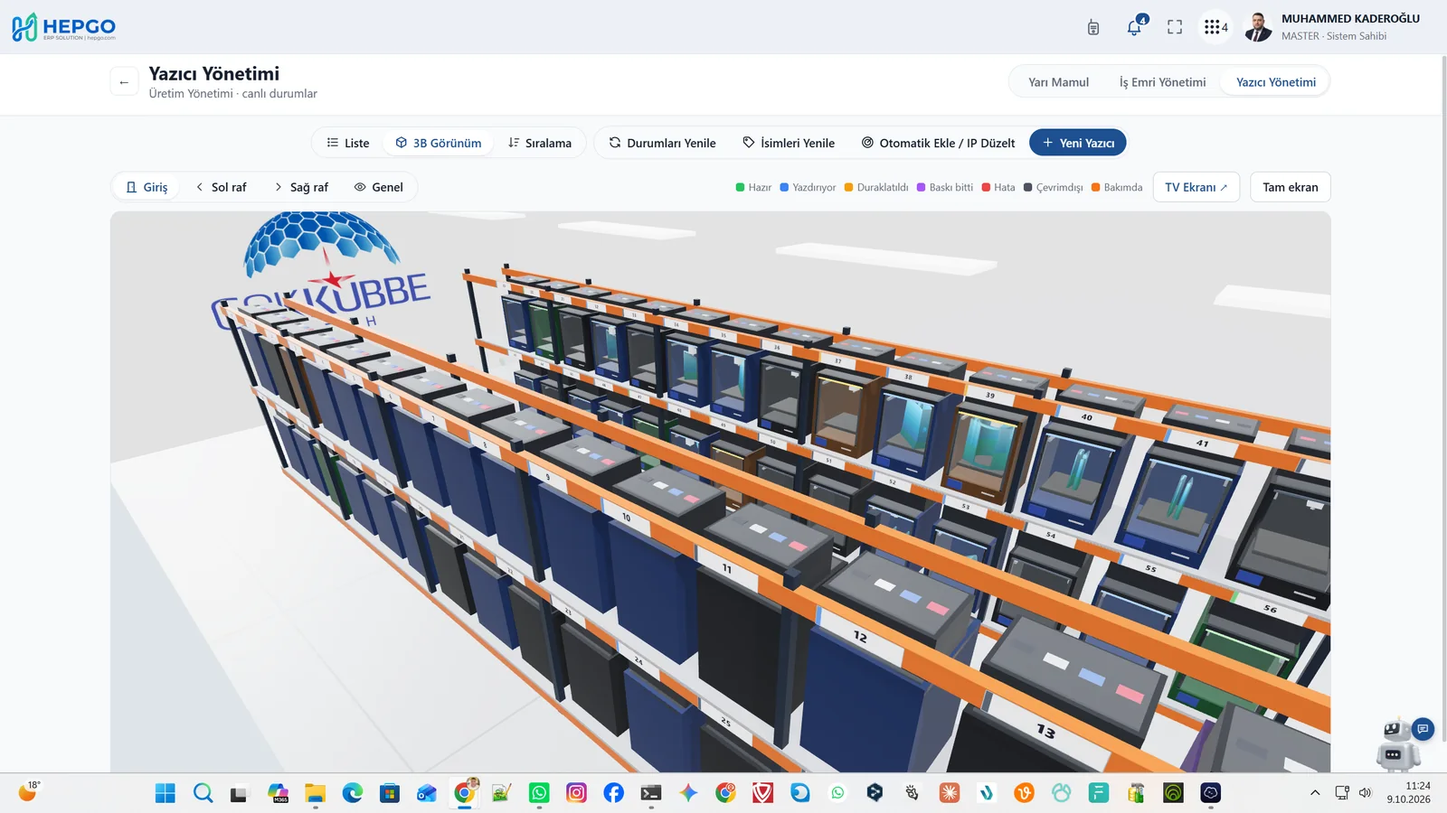
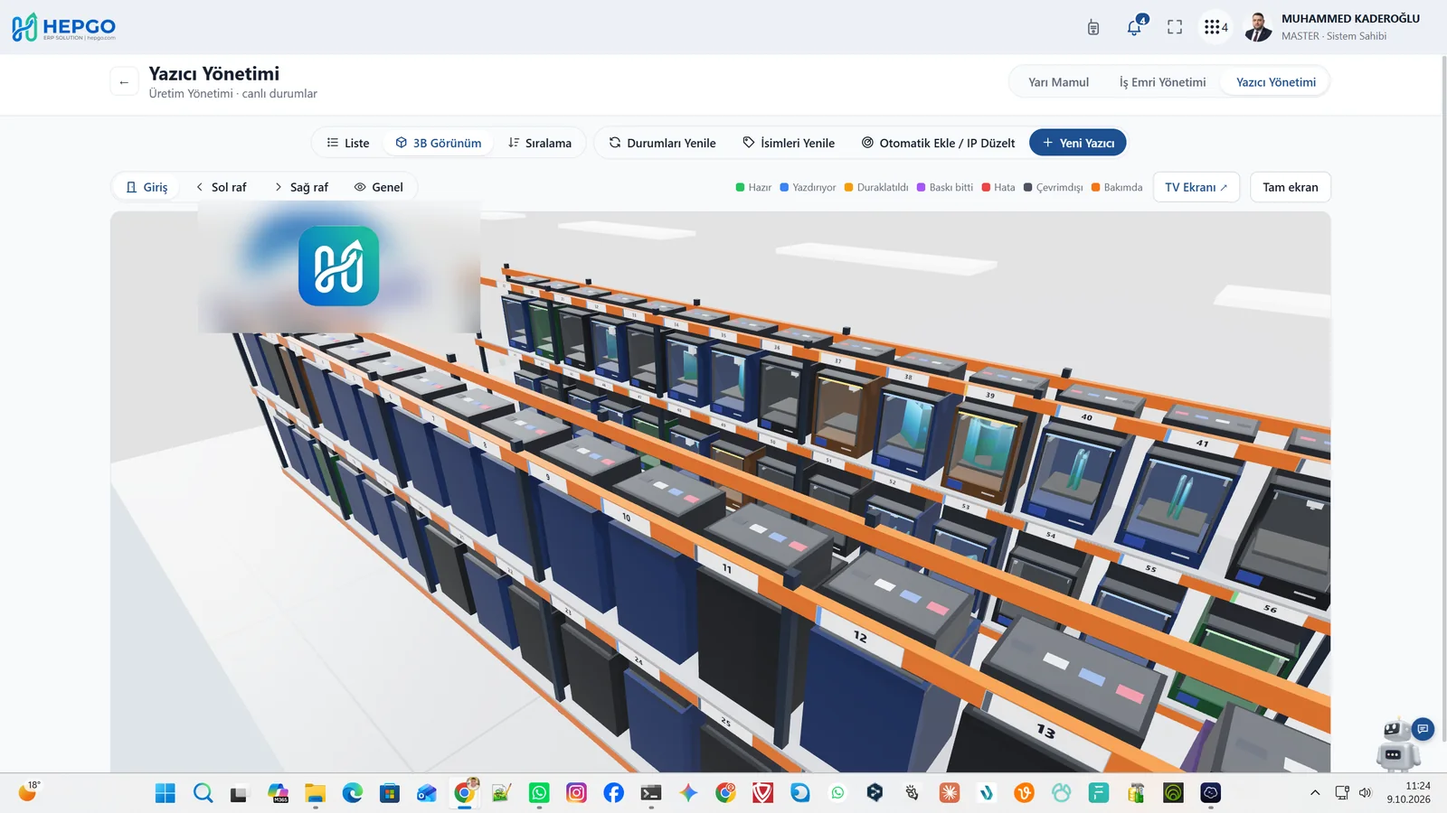
Tanıtım görselleri: önbellek kırma (?v=2) + yazıcı 3D sahnesindeki GÖKKÜBBE logosu temizlendi

Changed region(s): [[0.125, 0.2489, 0.3438, 0.4356]]

diff --git a/central/veilox_server/static/landing.js b/central/veilox_server/static/landing.js
@@ -235,32 +235,32 @@ const FEATURES = [
 
 // Yenilikçi sistem satırları (örnek görsellerle); ilk sırada toplantı sistemi
 const ROWS = [
-  { id: 'meet', img: ['/static/img/landing/mob-meet.webp', '/static/img/landing/tab-messages.webp'], solo: false,
+  { id: 'meet', img: ['/static/img/landing/mob-meet.webp?v=2', '/static/img/landing/tab-messages.webp?v=2'], solo: false,
     eye: { tr: 'Görüntülü toplantı', en: 'Video meetings', de: 'Videokonferenzen', fr: 'Visioconférences', es: 'Videollamadas', ar: 'اجتماعات مرئية', ru: 'Видеоконференции' },
     h: { tr: 'Zoom tarzı toplantı, ekibinizin içinde', en: 'Zoom-style meetings, inside your team', de: 'Meetings im Zoom-Stil, in Ihrem Team', fr: 'Réunions façon Zoom, au sein de votre équipe', es: 'Reuniones estilo Zoom, dentro de su equipo', ar: 'اجتماعات بأسلوب Zoom، داخل فريقك', ru: 'Встречи в стиле Zoom, внутри вашей команды' },
     p: { tr: 'Davet koduyla görüntülü toplantı; şirket dışından katılımcılar yalnızca bir linkle, giriş yapmadan katılır. Bekleme odası, ekran paylaşımı, el kaldırma sırası, toplantı içi sohbet ve kayıtların metne çevrilmesi.', en: 'Video meetings by invite code; external guests join with just a link, no sign-in. Waiting room, screen share, raise-hand queue, in-meeting chat and transcript of recordings.', de: 'Videokonferenzen per Einladungscode; externe Gäste treten nur über einen Link ohne Anmeldung bei. Warteraum, Bildschirmfreigabe, Handheben-Warteschlange, Chat im Meeting und Transkript von Aufnahmen.', fr: 'Visioconférences par code d’invitation ; les invités externes rejoignent par un simple lien, sans connexion. Salle d’attente, partage d’écran, file de levée de main, chat en réunion et transcription des enregistrements.', es: 'Videollamadas por código de invitación; los invitados externos entran solo con un enlace, sin iniciar sesión. Sala de espera, compartir pantalla, cola para levantar la mano, chat en la reunión y transcripción de las grabaciones.', ar: 'اجتماعات مرئية برمز دعوة؛ ينضم الضيوف الخارجيون برابط فقط دون تسجيل دخول. غرفة انتظار، مشاركة الشاشة، طابور رفع اليد، محادثة داخل الاجتماع، وتفريغ التسجيلات نصّياً.', ru: 'Видеоконференции по коду приглашения; внешние гости подключаются по ссылке без входа. Комната ожидания, демонстрация экрана, очередь поднятых рук, чат во встрече и расшифровка записей.' },
     ticks: { tr: ['Bekleme odası ve katılımcı kabulü', 'Ekran paylaşımı ve el kaldırma', 'Kayıtların metne çevrilmesi'], en: ['Waiting room & admit guests', 'Screen share & raise hand', 'Transcripts of recordings'], de: ['Warteraum & Gäste zulassen', 'Bildschirmfreigabe & Handheben', 'Transkripte von Aufnahmen'], fr: ['Salle d’attente & admission des invités', 'Partage d’écran & lever la main', 'Transcriptions des enregistrements'], es: ['Sala de espera y admisión de invitados', 'Compartir pantalla y levantar la mano', 'Transcripción de grabaciones'], ar: ['غرفة انتظار وقبول المشاركين', 'مشاركة الشاشة ورفع اليد', 'تفريغ التسجيلات نصّياً'], ru: ['Комната ожидания и приём гостей', 'Демонстрация экрана и поднятие руки', 'Расшифровка записей'] } },
-  { id: '', img: ['/static/img/landing/shots/m-live.webp', '/static/img/landing/shots/dashboard.webp'], solo: false, rev: true,
+  { id: '', img: ['/static/img/landing/shots/m-live.webp?v=2', '/static/img/landing/shots/dashboard.webp?v=2'], solo: false, rev: true,
     eye: { tr: 'Şirket içi sosyal ağ', en: 'Company social network', de: 'Internes soziales Netzwerk', fr: 'Réseau social interne', es: 'Red social interna', ar: 'شبكة اجتماعية داخلية', ru: 'Внутренняя соцсеть' },
     h: { tr: 'Şirketten haberler, sahadan canlı yayın', en: 'Company news, live from the field', de: 'Firmennews, live vom Außendienst', fr: 'Actualités de l’entreprise, en direct du terrain', es: 'Noticias de la empresa, en directo desde el campo', ar: 'أخبار الشركة، بث مباشر من الميدان', ru: 'Новости компании, прямой эфир с объекта' },
     p: { tr: 'Instagram kadar tanıdık bir akış: fotoğraf ve video paylaşımı, kalp ve yorumlar, kaydetme. Sahadaki ekip tek dokunuşla canlı yayın açar; herkese anında bildirim düşer, izleyenler yorum ve kalp gönderir, yayın bitince kayıt akışta paylaşılır.', en: 'A feed as familiar as Instagram: photo and video posts, hearts and comments, saves. Field teams go live with one tap; everyone is notified instantly, viewers send comments and hearts, and the recording is posted when the stream ends.', de: 'Ein Feed so vertraut wie Instagram: Foto- und Videobeiträge, Herzen und Kommentare, Speichern. Außendienstteams gehen mit einem Tippen live; alle werden sofort benachrichtigt, Zuschauer senden Kommentare und Herzen, und die Aufnahme wird nach dem Stream gepostet.', fr: 'Un fil aussi familier qu’Instagram : publications photo et vidéo, cœurs et commentaires, enregistrements. Les équipes de terrain passent en direct d’un geste ; tout le monde est notifié aussitôt, les spectateurs envoient commentaires et cœurs, et l’enregistrement est publié à la fin du direct.', es: 'Un muro tan familiar como Instagram: fotos y vídeos, corazones y comentarios, guardados. Los equipos de campo transmiten en vivo con un toque; todos reciben aviso al instante, los espectadores envían comentarios y corazones, y la grabación se publica al terminar.', ar: 'خلاصة مألوفة كإنستغرام: منشورات صور وفيديو، إعجابات وتعليقات، وحفظ. يبدأ فريق الميدان البث المباشر بلمسة واحدة؛ يصل الإشعار للجميع فوراً، ويرسل المشاهدون التعليقات والإعجابات، ويُنشر التسجيل عند انتهاء البث.', ru: 'Лента, знакомая как Instagram: фото и видео, лайки и комментарии, сохранения. Полевые команды выходят в эфир одним касанием; все получают мгновенное уведомление, зрители шлют комментарии и лайки, а запись публикуется после эфира.' },
     ticks: { tr: ['Fotoğraf / video, kalp, yorum ve yanıt', 'Tek dokunuşla canlı yayın + anlık bildirim', 'Tam ekran, kaydırarak gezinme'], en: ['Photo / video, hearts, comments & replies', 'One-tap live streaming + instant alerts', 'Full-screen, swipe to browse'], de: ['Foto / Video, Herzen, Kommentare & Antworten', 'Live-Streaming per Tipp + Sofortbenachrichtigungen', 'Vollbild, Wischen zum Blättern'], fr: ['Photo / vidéo, cœurs, commentaires & réponses', 'Direct en un geste + alertes instantanées', 'Plein écran, balayer pour parcourir'], es: ['Foto / vídeo, corazones, comentarios y respuestas', 'Directo con un toque + avisos instantáneos', 'Pantalla completa, deslizar para navegar'], ar: ['صور/فيديو، إعجابات، تعليقات وردود', 'بث مباشر بلمسة + إشعارات فورية', 'ملء الشاشة، التمرير للتصفح'], ru: ['Фото/видео, лайки, комментарии и ответы', 'Эфир одним касанием + мгновенные уведомления', 'Полный экран, листание свайпом'] } },
-  { id: '', img: ['/static/img/landing/shots/printers.webp'], solo: true,
+  { id: '', img: ['/static/img/landing/shots/printers.webp?v=2'], solo: true,
     eye: { tr: 'Yazıcı odası', en: 'Printer room', de: 'Druckerraum', fr: 'Salle d’imprimantes', es: 'Sala de impresoras', ar: 'غرفة الطابعات', ru: 'Комната принтеров' },
     h: { tr: 'Onlarca 3B yazıcı, tek bakışta', en: 'Dozens of 3D printers, at a glance', de: 'Dutzende 3D-Drucker auf einen Blick', fr: 'Des dizaines d’imprimantes 3D, en un coup d’œil', es: 'Docenas de impresoras 3D, de un vistazo', ar: 'عشرات الطابعات ثلاثية الأبعاد بنظرة واحدة', ru: 'Десятки 3D-принтеров с одного взгляда' },
     p: { tr: 'Yazıcılar ağdan otomatik bulunur, durumları saniyeler içinde okunur. Kayıtsız baskı ya da hata anında uyarı düşer; yazıcıya doğrudan G-code gönderilir.', en: 'Printers are auto-discovered on the network and polled within seconds. Unregistered prints or errors raise instant alerts; send G-code straight to the printer.', de: 'Drucker werden im Netzwerk automatisch erkannt und im Sekundentakt abgefragt. Nicht erfasste Drucke oder Fehler lösen sofort Warnungen aus; G-Code wird direkt an den Drucker gesendet.', fr: 'Les imprimantes sont détectées automatiquement sur le réseau et interrogées en quelques secondes. Impressions non enregistrées ou erreurs déclenchent des alertes instantanées ; envoi du G-code directement à l’imprimante.', es: 'Las impresoras se descubren automáticamente en la red y se consultan en segundos. Impresiones no registradas o errores generan alertas al instante; envíe G-code directo a la impresora.', ar: 'تُكتشف الطابعات تلقائياً على الشبكة وتُستعلم خلال ثوانٍ. الطباعة غير المسجلة أو الأخطاء تطلق تنبيهات فورية؛ أرسل G-code مباشرة إلى الطابعة.', ru: 'Принтеры автоматически находятся в сети и опрашиваются за секунды. Незарегистрированная печать или ошибки — мгновенные оповещения; отправка G-code прямо на принтер.' },
     ticks: { tr: ['Liste ve 3B oda görünümü', 'Doğrudan G-code gönderimi', 'Hata ve uyumsuzluk uyarıları'], en: ['List & 3D room view', 'Direct G-code dispatch', 'Error & mismatch alerts'], de: ['Listen- & 3D-Raumansicht', 'Direkter G-Code-Versand', 'Fehler- & Abweichungswarnungen'], fr: ['Vue liste & salle 3D', 'Envoi G-code direct', 'Alertes d’erreur & d’incohérence'], es: ['Vista de lista y sala 3D', 'Envío directo de G-code', 'Alertas de error y discrepancia'], ar: ['عرض القائمة والغرفة ثلاثية الأبعاد', 'إرسال G-code مباشر', 'تنبيهات الأخطاء وعدم التطابق'], ru: ['Список и 3D-вид комнаты', 'Прямая отправка G-code', 'Оповещения об ошибках и несоответствиях'] } },
-  { id: '', img: ['/static/img/landing/shots/finance-statements.webp'], solo: true, rev: true,
+  { id: '', img: ['/static/img/landing/shots/finance-statements.webp?v=2'], solo: true, rev: true,
     eye: { tr: 'Finans', en: 'Finance', de: 'Finanzen', fr: 'Finance', es: 'Finanzas', ar: 'المالية', ru: 'Финансы' },
     h: { tr: 'Patronun görmesi gereken her şey, tek ekranda', en: 'Everything the owner needs to see, on one screen', de: 'Alles, was der Chef sehen muss, auf einem Bildschirm', fr: 'Tout ce que le dirigeant doit voir, sur un seul écran', es: 'Todo lo que el dueño necesita ver, en una pantalla', ar: 'كل ما يحتاج المالك رؤيته، في شاشة واحدة', ru: 'Всё, что нужно руководителю, на одном экране' },
     p: { tr: 'Kasa, banka ve cari hesaplar; 12 haftalık nakit akışı tahmini, alacak ve borç yaşlandırma, çek / senet portföyü. Muhasebe programınızla senkron mizan, gelir tablosu ve bilanço özeti.', en: 'Cash, bank and customer accounts; a 12-week cash-flow forecast, receivable and payable aging, cheque / note portfolio. Trial balance, income statement and balance sheet in sync with your accounting software.', de: 'Kassen-, Bank- und Debitorenkonten; 12-Wochen-Cashflow-Prognose, Forderungs- und Verbindlichkeits-Fälligkeiten, Scheck-/Wechselportfolio. Rohbilanz, Gewinn- und Verlustrechnung und Bilanzübersicht synchron mit Ihrer Buchhaltung.', fr: 'Caisse, banque et comptes clients ; prévision de trésorerie sur 12 semaines, balance âgée des créances et dettes, portefeuille de chèques / effets. Balance, compte de résultat et bilan synchronisés avec votre logiciel comptable.', es: 'Caja, banco y cuentas de clientes; previsión de tesorería a 12 semanas, antigüedad de cobros y pagos, cartera de cheques / pagarés. Balance de sumas, cuenta de resultados y balance sincronizados con su software contable.', ar: 'الصندوق والبنك وحسابات العملاء؛ توقّع تدفّق نقدي لـ12 أسبوعاً، أعمار الذمم المدينة والدائنة، محفظة شيكات/سندات. ميزان مراجعة وقائمة دخل وملخص ميزانية بالتزامن مع برنامج محاسبتك.', ru: 'Касса, банк и счета клиентов; прогноз денежного потока на 12 недель, старение дебиторки и кредиторки, портфель чеков/векселей. Оборотная ведомость, отчёт о прибылях и баланс в синхроне с вашей бухгалтерией.' },
     ticks: { tr: ['Nakit akışı tahmini ve yaşlandırma', 'Mizan, gelir tablosu, bilanço', 'Muhasebe programıyla tek yönlü senkron'], en: ['Cash-flow forecast & aging', 'Trial balance, P&L, balance sheet', 'One-way sync with accounting'], de: ['Cashflow-Prognose & Fälligkeiten', 'Rohbilanz, GuV, Bilanz', 'Einweg-Sync mit der Buchhaltung'], fr: ['Prévision de trésorerie & balance âgée', 'Balance, compte de résultat, bilan', 'Synchro unidirectionnelle avec la comptabilité'], es: ['Previsión de tesorería y antigüedad', 'Balance de sumas, resultados, balance', 'Sincronización unidireccional con contabilidad'], ar: ['توقّع التدفق النقدي والأعمار', 'ميزان مراجعة، قائمة دخل، ميزانية', 'مزامنة أحادية الاتجاه مع المحاسبة'], ru: ['Прогноз денежного потока и старение', 'Оборотка, ОПУ, баланс', 'Односторонняя синхронизация с бухгалтерией'] } },
-  { id: '', img: ['/static/img/landing/shots/belge-word.webp'], solo: true,
+  { id: '', img: ['/static/img/landing/shots/belge-word.webp?v=2'], solo: true,
     eye: { tr: 'Ofis belgeleri', en: 'Office documents', de: 'Office-Dokumente', fr: 'Documents bureautiques', es: 'Documentos de oficina', ar: 'مستندات المكتب', ru: 'Офисные документы' },
     h: { tr: 'Excel, Word ve Sunum — uygulama içinde', en: 'Excel, Word & Slides — in the app', de: 'Excel, Word & Präsentationen — in der App', fr: 'Excel, Word & présentations — dans l’app', es: 'Excel, Word y presentaciones — en la app', ar: 'Excel وWord والعروض — داخل التطبيق', ru: 'Excel, Word и презентации — в приложении' },
     p: { tr: 'Dış programa gerek yok. Belgelerinizi oluşturun, otomatik kaydedin; kime görüntüleme, kime düzenleme izni vereceğinizi seçin. Her kaydetmede sürüm geçmişi tutulur.', en: 'No external apps needed. Create documents, auto-save; choose who can view and who can edit. Version history is kept on every save.', de: 'Keine externen Programme nötig. Dokumente erstellen, automatisch speichern; festlegen, wer ansehen und wer bearbeiten darf. Bei jedem Speichern wird der Versionsverlauf geführt.', fr: 'Aucune application externe. Créez des documents, enregistrement automatique ; choisissez qui peut consulter et qui peut modifier. Historique de versions à chaque enregistrement.', es: 'Sin programas externos. Cree documentos, guardado automático; elija quién puede ver y quién editar. Se guarda historial de versiones en cada guardado.', ar: 'لا حاجة لبرامج خارجية. أنشئ مستنداتك، حفظ تلقائي؛ اختر من يطّلع ومن يحرّر. يُحفظ سجل الإصدارات عند كل حفظ.', ru: 'Без сторонних программ. Создавайте документы с автосохранением; выбирайте, кто смотрит и кто редактирует. История версий при каждом сохранении.' },
     ticks: { tr: ['Excel / Word / Sunum', 'Görüntüleme & düzenleme izni', 'Sürüm geçmişi ve geri yükleme'], en: ['Excel / Word / Slides', 'View & edit permissions', 'Version history & restore'], de: ['Excel / Word / Präsentation', 'Ansehen- & Bearbeiten-Rechte', 'Versionsverlauf & Wiederherstellung'], fr: ['Excel / Word / Présentation', 'Droits de consultation & modification', 'Historique de versions & restauration'], es: ['Excel / Word / Presentación', 'Permisos de ver y editar', 'Historial de versiones y restauración'], ar: ['Excel / Word / عرض', 'صلاحيات الاطلاع والتحرير', 'سجل الإصدارات والاستعادة'], ru: ['Excel / Word / презентация', 'Права на просмотр и правку', 'История версий и восстановление'] } },
-  { id: '', img: ['/static/img/landing/shots/mascot3d.webp'], solo: true, rev: true,
+  { id: '', img: ['/static/img/landing/shots/mascot3d.webp?v=2'], solo: true, rev: true,
     eye: { tr: 'Yapay zeka', en: 'Artificial intelligence', de: 'Künstliche Intelligenz', fr: 'Intelligence artificielle', es: 'Inteligencia artificial', ar: 'الذكاء الاصطناعي', ru: 'Искусственный интеллект' },
     h: { tr: 'Sorun, sistem cevaplasın', en: 'Ask, the system answers', de: 'Fragen Sie, das System antwortet', fr: 'Demandez, le système répond', es: 'Pregunte y el sistema responde', ar: 'اسأل، فيُجيب النظام', ru: 'Спросите — система ответит' },
     p: { tr: 'Köşedeki asistana “bugün kaç parça teslim edildi?” diye sorun; yalnızca sizin yetkili olduğunuz verilerle cevap verir. Bir kaydın değişmesini isterseniz talebi yöneticinin onayına gönderir.', en: 'Ask the corner assistant “how many parts shipped today?”; it answers only with data you are allowed to see. Want a record changed? It routes the request to admin approval.', de: 'Fragen Sie den Assistenten in der Ecke „Wie viele Teile wurden heute geliefert?“; er antwortet nur mit Daten, die Sie sehen dürfen. Soll ein Datensatz geändert werden? Er leitet die Anfrage zur Admin-Freigabe weiter.', fr: 'Demandez à l’assistant dans le coin « combien de pièces livrées aujourd’hui ? » ; il répond uniquement avec les données que vous êtes autorisé à voir. Besoin de modifier un enregistrement ? Il transmet la demande à la validation admin.', es: 'Pregunte al asistente de la esquina «¿cuántas piezas se entregaron hoy?»; responde solo con datos que usted puede ver. ¿Quiere cambiar un registro? Envía la solicitud a la aprobación del administrador.', ar: 'اسأل المساعد في الزاوية «كم قطعة سُلّمت اليوم؟»؛ يجيب فقط بالبيانات المصرّح لك بها. أتريد تغيير سجل؟ يحيل الطلب إلى موافقة المدير.', ru: 'Спросите ассистента в углу: «сколько деталей отгружено сегодня?» — он ответит только по данным, доступным вам. Нужно изменить запись? Он отправит запрос на одобрение администратора.' },
@@ -270,17 +270,17 @@ const ROWS = [
 // Gerçek ekran görüntüleri galerisi
 const S = '/static/img/landing/shots/';
 const GALLERY = [
-  { img: S + 'dashboard.webp', tr: 'Firma yönetimi', en: 'Company management', de: 'Firmenverwaltung', fr: 'Gestion des entreprises', es: 'Gestión de empresas', ar: 'إدارة الشركات', ru: 'Управление компаниями' },
-  { img: S + 'printers.webp', tr: 'Yazıcı yönetimi', en: 'Printer management', de: 'Druckerverwaltung', fr: 'Gestion des imprimantes', es: 'Gestión de impresoras', ar: 'إدارة الطابعات', ru: 'Управление принтерами' },
-  { img: S + 'orders.webp', tr: 'Üretim yönetimi', en: 'Production management', de: 'Produktionsverwaltung', fr: 'Gestion de production', es: 'Gestión de producción', ar: 'إدارة الإنتاج', ru: 'Управление производством' },
-  { img: S + 'reports.webp', tr: 'Raporlar (22+)', en: 'Reports (22+)', de: 'Berichte (22+)', fr: 'Rapports (22+)', es: 'Informes (22+)', ar: 'تقارير (22+)', ru: 'Отчёты (22+)' },
-  { img: S + 'belge-list.webp', tr: 'Belge Yönetim', en: 'Document suite', de: 'Dokumentensuite', fr: 'Suite bureautique', es: 'Suite de documentos', ar: 'حزمة المستندات', ru: 'Документы' },
-  { img: S + 'belge-excel.webp', tr: 'Uygulama içi Excel', en: 'In-app spreadsheet', de: 'Tabellen in der App', fr: 'Tableur intégré', es: 'Hoja de cálculo en la app', ar: 'جداول داخل التطبيق', ru: 'Таблицы в приложении' },
-  { img: S + 'fabrika.webp', tr: 'Fabrika yerleşimi', en: 'Factory layout', de: 'Fabriklayout', fr: 'Plan d’usine', es: 'Plano de fábrica', ar: 'مخطط المصنع', ru: 'План завода' },
-  { img: S + 'field.webp', tr: 'Saha yönetimi', en: 'Field management', de: 'Außendienst', fr: 'Gestion du terrain', es: 'Gestión de campo', ar: 'إدارة الميدان', ru: 'Выезды' },
-  { img: S + 'finance-cash.webp', tr: 'Nakit akışı ve yaşlandırma', en: 'Cash flow & aging', de: 'Cashflow & Fälligkeiten', fr: 'Trésorerie & balance âgée', es: 'Tesorería y antigüedad', ar: 'التدفق النقدي والأعمار', ru: 'Денежный поток и старение' },
-  { img: S + 'finance-trial.webp', tr: 'Mizan', en: 'Trial balance', de: 'Rohbilanz', fr: 'Balance', es: 'Balance de sumas', ar: 'ميزان المراجعة', ru: 'Оборотная ведомость' },
-  { img: S + 'kullanicilar.webp', tr: 'Kullanıcı yönetimi', en: 'User management', de: 'Benutzerverwaltung', fr: 'Gestion des utilisateurs', es: 'Gestión de usuarios', ar: 'إدارة المستخدمين', ru: 'Управление пользователями' },
+  { img: S + 'dashboard.webp?v=2', tr: 'Firma yönetimi', en: 'Company management', de: 'Firmenverwaltung', fr: 'Gestion des entreprises', es: 'Gestión de empresas', ar: 'إدارة الشركات', ru: 'Управление компаниями' },
+  { img: S + 'printers.webp?v=2', tr: 'Yazıcı yönetimi', en: 'Printer management', de: 'Druckerverwaltung', fr: 'Gestion des imprimantes', es: 'Gestión de impresoras', ar: 'إدارة الطابعات', ru: 'Управление принтерами' },
+  { img: S + 'orders.webp?v=2', tr: 'Üretim yönetimi', en: 'Production management', de: 'Produktionsverwaltung', fr: 'Gestion de production', es: 'Gestión de producción', ar: 'إدارة الإنتاج', ru: 'Управление производством' },
+  { img: S + 'reports.webp?v=2', tr: 'Raporlar (22+)', en: 'Reports (22+)', de: 'Berichte (22+)', fr: 'Rapports (22+)', es: 'Informes (22+)', ar: 'تقارير (22+)', ru: 'Отчёты (22+)' },
+  { img: S + 'belge-list.webp?v=2', tr: 'Belge Yönetim', en: 'Document suite', de: 'Dokumentensuite', fr: 'Suite bureautique', es: 'Suite de documentos', ar: 'حزمة المستندات', ru: 'Документы' },
+  { img: S + 'belge-excel.webp?v=2', tr: 'Uygulama içi Excel', en: 'In-app spreadsheet', de: 'Tabellen in der App', fr: 'Tableur intégré', es: 'Hoja de cálculo en la app', ar: 'جداول داخل التطبيق', ru: 'Таблицы в приложении' },
+  { img: S + 'fabrika.webp?v=2', tr: 'Fabrika yerleşimi', en: 'Factory layout', de: 'Fabriklayout', fr: 'Plan d’usine', es: 'Plano de fábrica', ar: 'مخطط المصنع', ru: 'План завода' },
+  { img: S + 'field.webp?v=2', tr: 'Saha yönetimi', en: 'Field management', de: 'Außendienst', fr: 'Gestion du terrain', es: 'Gestión de campo', ar: 'إدارة الميدان', ru: 'Выезды' },
+  { img: S + 'finance-cash.webp?v=2', tr: 'Nakit akışı ve yaşlandırma', en: 'Cash flow & aging', de: 'Cashflow & Fälligkeiten', fr: 'Trésorerie & balance âgée', es: 'Tesorería y antigüedad', ar: 'التدفق النقدي والأعمار', ru: 'Денежный поток и старение' },
+  { img: S + 'finance-trial.webp?v=2', tr: 'Mizan', en: 'Trial balance', de: 'Rohbilanz', fr: 'Balance', es: 'Balance de sumas', ar: 'ميزان المراجعة', ru: 'Оборотная ведомость' },
+  { img: S + 'kullanicilar.webp?v=2', tr: 'Kullanıcı yönetimi', en: 'User management', de: 'Benutzerverwaltung', fr: 'Gestion des utilisateurs', es: 'Gestión de usuarios', ar: 'إدارة المستخدمين', ru: 'Управление пользователями' },
 ];
 
 // Modül ikonları (sabit)

diff --git a/central/veilox_server/static/giris.js b/central/veilox_server/static/giris.js
@@ -270,7 +270,7 @@ function shell() {
         <span class="pill"><i></i> HEPGO ERP</span>
         <h1>${esc(L.sideH)}</h1><p>${esc(L.sideP)}</p>
         <ul class="gx-ticks">${L.sideList.map(x => `<li>${svg('<path d="M5 12l4 4 10-10"/>')}<span>${esc(x)}</span></li>`).join('')}</ul>
-        <div class="gx-shot"><img class="shot" src="/static/img/landing/shots/dashboard.webp" alt=""></div>
+        <div class="gx-shot"><img class="shot" src="/static/img/landing/shots/dashboard.webp?v=2" alt=""></div>
       </div></aside>
       <section class="gx-card">
         <div class="gx-tabs" role="tablist">
